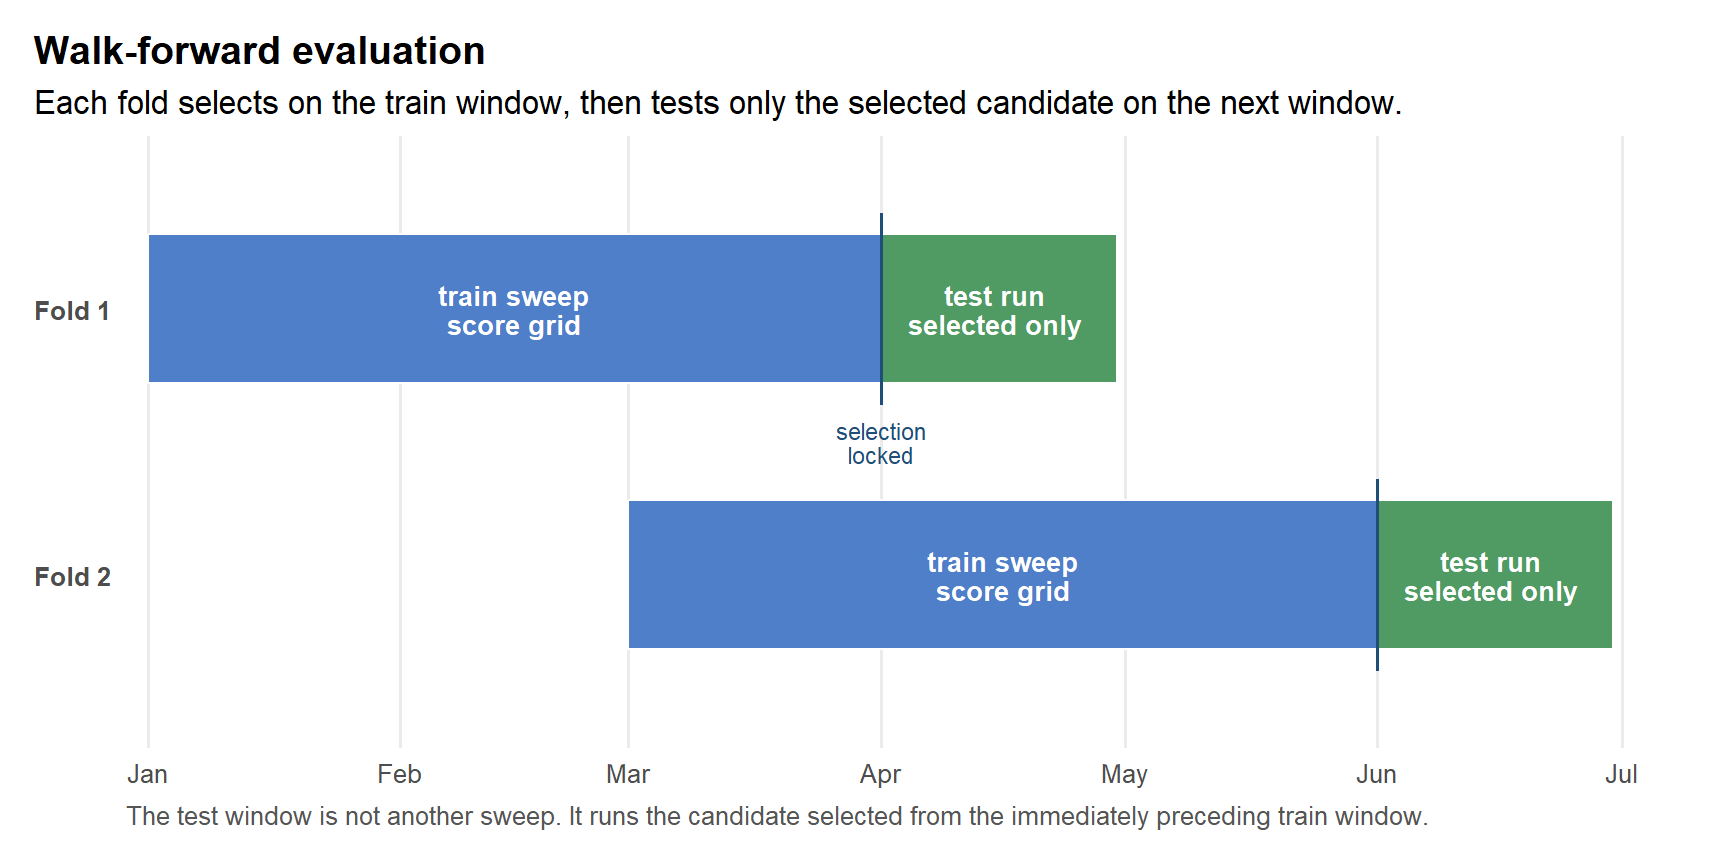
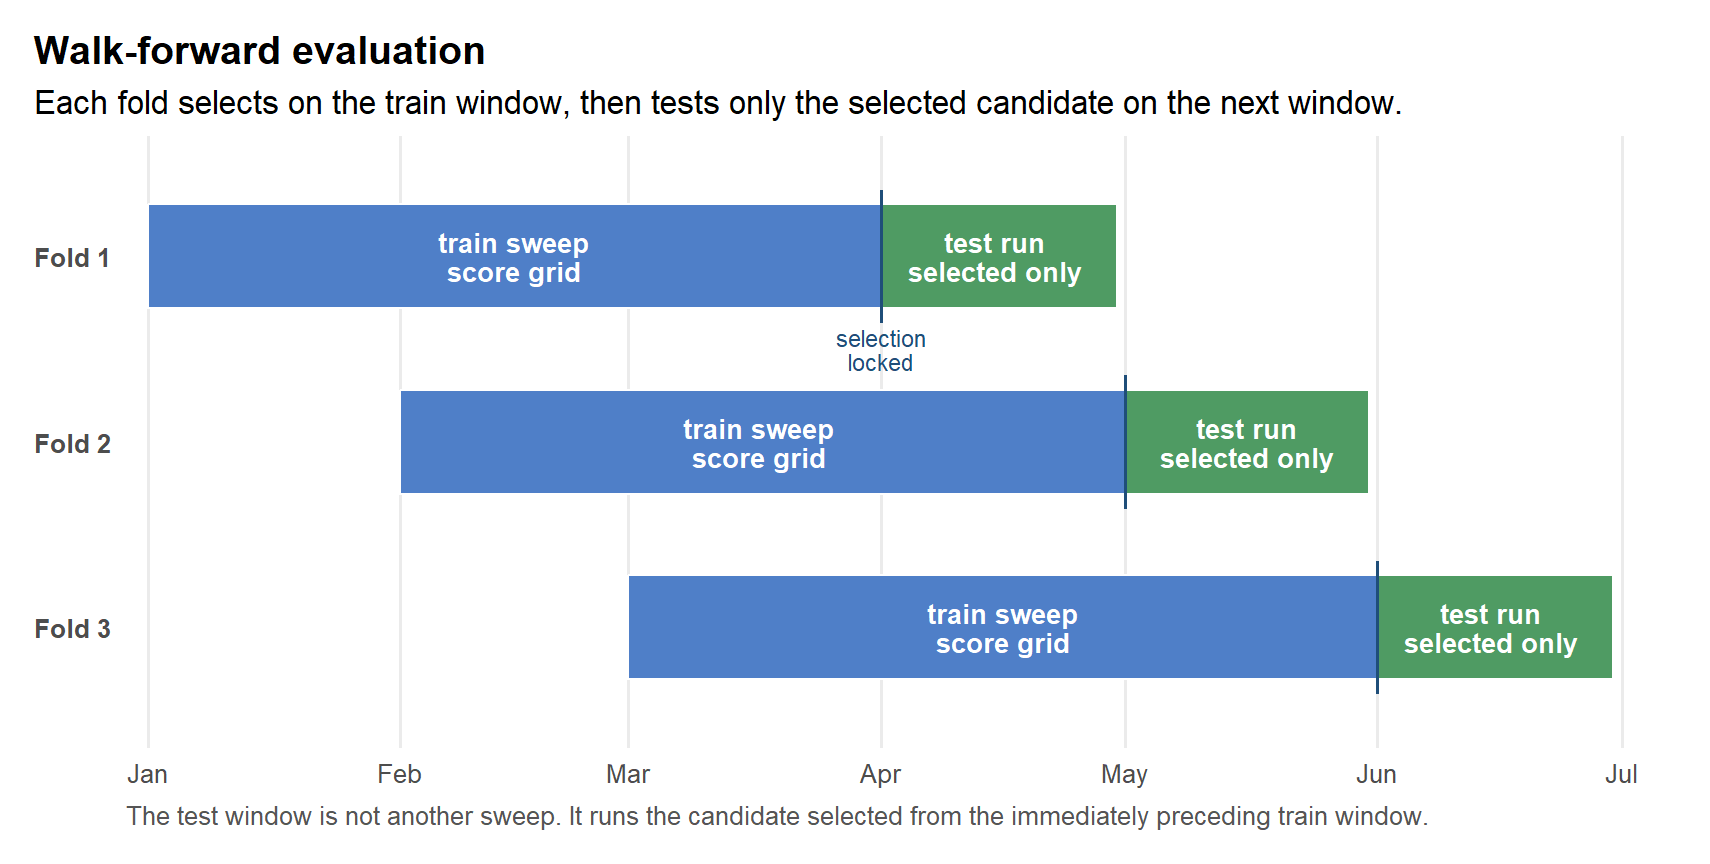
Make gapped-carry fold layouts contiguous in a test and the walk-forward article (LDG-2979)
LTB-0024 (heavy protocol) and the walk-forward article used test windows
with sessions between them under the default carry_test_state, which
LDG-2979 now refuses. LTB-0024's first test window now ends on the day
before the second starts, keeping both instrument gaps inside and every
assertion unchanged. The article steps its folds by one month (three
folds instead of two), explains why carrying needs contiguous test
windows, widens test_window and step together in its exercise, and
quotes the new Sharpe range; walk-forward.md is re-rendered.

diff --git a/vignettes/walk-forward.md b/vignettes/walk-forward.md
@@ -89,21 +89,22 @@ folds <- ledgr_folds_rolling(
   end = "2019-07-31",
   train_window = "3 months",
   test_window = "1 month",
-  step = "2 months"
+  step = "1 month"
 )
 
 folds
 #> ledgr fold list
 #> ================
 #> Scheme: rolling
-#> Folds:  2
-#> Hash:   12a94353eb09
+#> Folds:  3
+#> Hash:   b901194b80cb
 #>
-#> # A tibble: 2 x 3
+#> # A tibble: 3 x 3
 #>    fold train                    test
 #>   <int> <chr>                    <chr>
 #> 1     1 2019-01-01 -> 2019-03-31 2019-04-01 -> 2019-04-30
-#> 2     2 2019-03-01 -> 2019-05-31 2019-06-01 -> 2019-06-30
+#> 2     2 2019-02-01 -> 2019-04-30 2019-05-01 -> 2019-05-31
+#> 3     3 2019-03-01 -> 2019-05-31 2019-06-01 -> 2019-06-30
 ```
 
 Each window also starts its features fresh. A train or test window never
@@ -164,23 +165,24 @@ wf <- ledgr_walk_forward(
 wf
 #> ledgr walk-forward
 #> ==================
-#> Fold selections: 2 from training, 0 reused from an earlier fold, 0 without a candidate.
+#> Fold selections: 3 from training, 0 reused from an earlier fold, 0 without a candidate.
 #> Health warning: one or more test windows are shorter than 90 calendar days.
 #>
 #> Train/test degradation:
-#> # A tibble: 2 x 7
+#> # A tibble: 3 x 7
 #>   fold_seq selection_metric train_metric_value test_metric_value metric_diff_abs
 #>      <int> <chr>                         <dbl>             <dbl>           <dbl>
 #> 1        1 sharpe_ratio                   1.98             0.800           -1.18
-#> 2        2 sharpe_ratio                   1.79             3.64             1.85
+#> 2        2 sharpe_ratio                   1.62            -4.47            -6.09
+#> 3        3 sharpe_ratio                   1.79             3.64             1.85
 #> # i 2 more variables: warning_flags <chr>, selected_candidate <chr>
 #>
-#> Session: 3540df018b1b4dc46767e777726d1b6eaae73be205ef7e1c7749cc45a7ce6e5a
+#> Session: 30d3d99097a362bfe4d5dc04088c2a6d8353e1409c00eae34eef3e36b3b82258
 #> Status: DONE
 #> Opening state: carry_test_state
-#> Folds: 2
-#> 4 train evaluations attempted: 4 done, 0 incomplete, 0 failed.
-#> 2 test runs attempted: 2 done, 0 incomplete, 0 failed.
+#> Folds: 3
+#> 6 train evaluations attempted: 6 done, 0 incomplete, 0 failed.
+#> 3 test runs attempted: 3 done, 0 incomplete, 0 failed.
 ```
 
 ## Read The Degradation Table First
@@ -192,11 +194,12 @@ ranges and percentage change, is one `as_tibble()` away.
 ``` r
 wf$degradation
 #> # ledgr walk-forward degradation
-#> # A tibble: 2 x 7
+#> # A tibble: 3 x 7
 #>   fold_seq selection_metric train_metric_value test_metric_value metric_diff_abs
 #>      <int> <chr>                         <dbl>             <dbl>           <dbl>
 #> 1        1 sharpe_ratio                   1.98             0.800           -1.18
-#> 2        2 sharpe_ratio                   1.79             3.64             1.85
+#> 2        2 sharpe_ratio                   1.62            -4.47            -6.09
+#> 3        3 sharpe_ratio                   1.79             3.64             1.85
 #> # i 2 more variables: warning_flags <chr>, selected_candidate <chr>
 #>
 #> # i Hidden columns: train_window, test_window, metric_diff_pct, selection_source. Use as_tibble() for the full table.
@@ -209,7 +212,7 @@ rule direction.
 Short test windows may carry warning flags. Those warnings are not
 failures; they are metadata telling you how to interpret the evidence.
 Here each test window is one month of two demo instruments, so the
-annualized Sharpe ratios swing from 0.80 to 3.64 between folds; at this
+annualized Sharpe ratios swing from -4.47 to 3.64 between folds; at this
 size they show the shape of the evidence, not its strength.
 
 ## Extract A Candidate With A Rationale
@@ -229,7 +232,7 @@ candidate
 #> =====================
 #> Candidate ID:     feature_af0f94c90243/strategy_86be010cf688
 #> Status:           DONE
-#> Execution seed:   1116619927
+#> Execution seed:   1276713596
 #> Strategy:         7a84341722d5
 #> Snapshot hash:    689d79faf5dc3ef9e7335e46bc583d6027bb8bfe9416a4c944a4294689269d26
 #> Feature-set hash: e5fbf0013f67e30f4d6d4bb75e5fa7c056b3e93ea61f08076575a974da10ee70
@@ -311,9 +314,14 @@ survivors hides the instruments that failed along the way, as
 > The default `opening_state_policy = "carry_test_state"` is
 > path-dependent. Each completed selected test run may seed the next test
 > opening state, so per-fold test metrics are not independent
-> observations. The explicit `opening_state_policy = "flat_test_state"`
-> opt-in starts every test window from the original experiment opening
-> state and marks the result as `cold_start_distorted`.
+> observations. Carrying needs contiguous test windows, which is why the
+> folds above step by one month, the length of their test window: with a
+> larger `step`, positions would cross the trading days between two test
+> windows without ever being valued, so `ledgr_walk_forward()` refuses
+> before running anything and names the first gap. The explicit
+> `opening_state_policy = "flat_test_state"` opt-in starts every test
+> window from the original experiment opening state, accepts any gaps
+> between test windows, and marks the result as `cold_start_distorted`.
 
 
 Anchored folds grow their train window over time. That is useful for
@@ -329,11 +337,12 @@ sets.
 >
 > Re-run `ledgr_walk_forward()` with
 > `opening_state_policy = "flat_test_state"`. How does the degradation
-> table change, and why does `cold_start_distorted` appear? Then widen the
-> `test_window` in `ledgr_folds_rolling()` to `"2 months"` and re-run. The
-> short-test-window flags stay, because the health check asks for at least
-> 90 calendar days. How long must a test window be before they go away,
-> and how many folds still fit between `start` and `end`?
+> table change, and why does `cold_start_distorted` appear? Then widen
+> both `test_window` and `step` in `ledgr_folds_rolling()` to `"2 months"`
+> and re-run. The short-test-window flags stay, because the health check
+> asks for at least 90 calendar days. How long must a test window be
+> before they go away, and how many folds still fit between `start` and
+> `end`?
 
 
 ## What This Does Not Do
